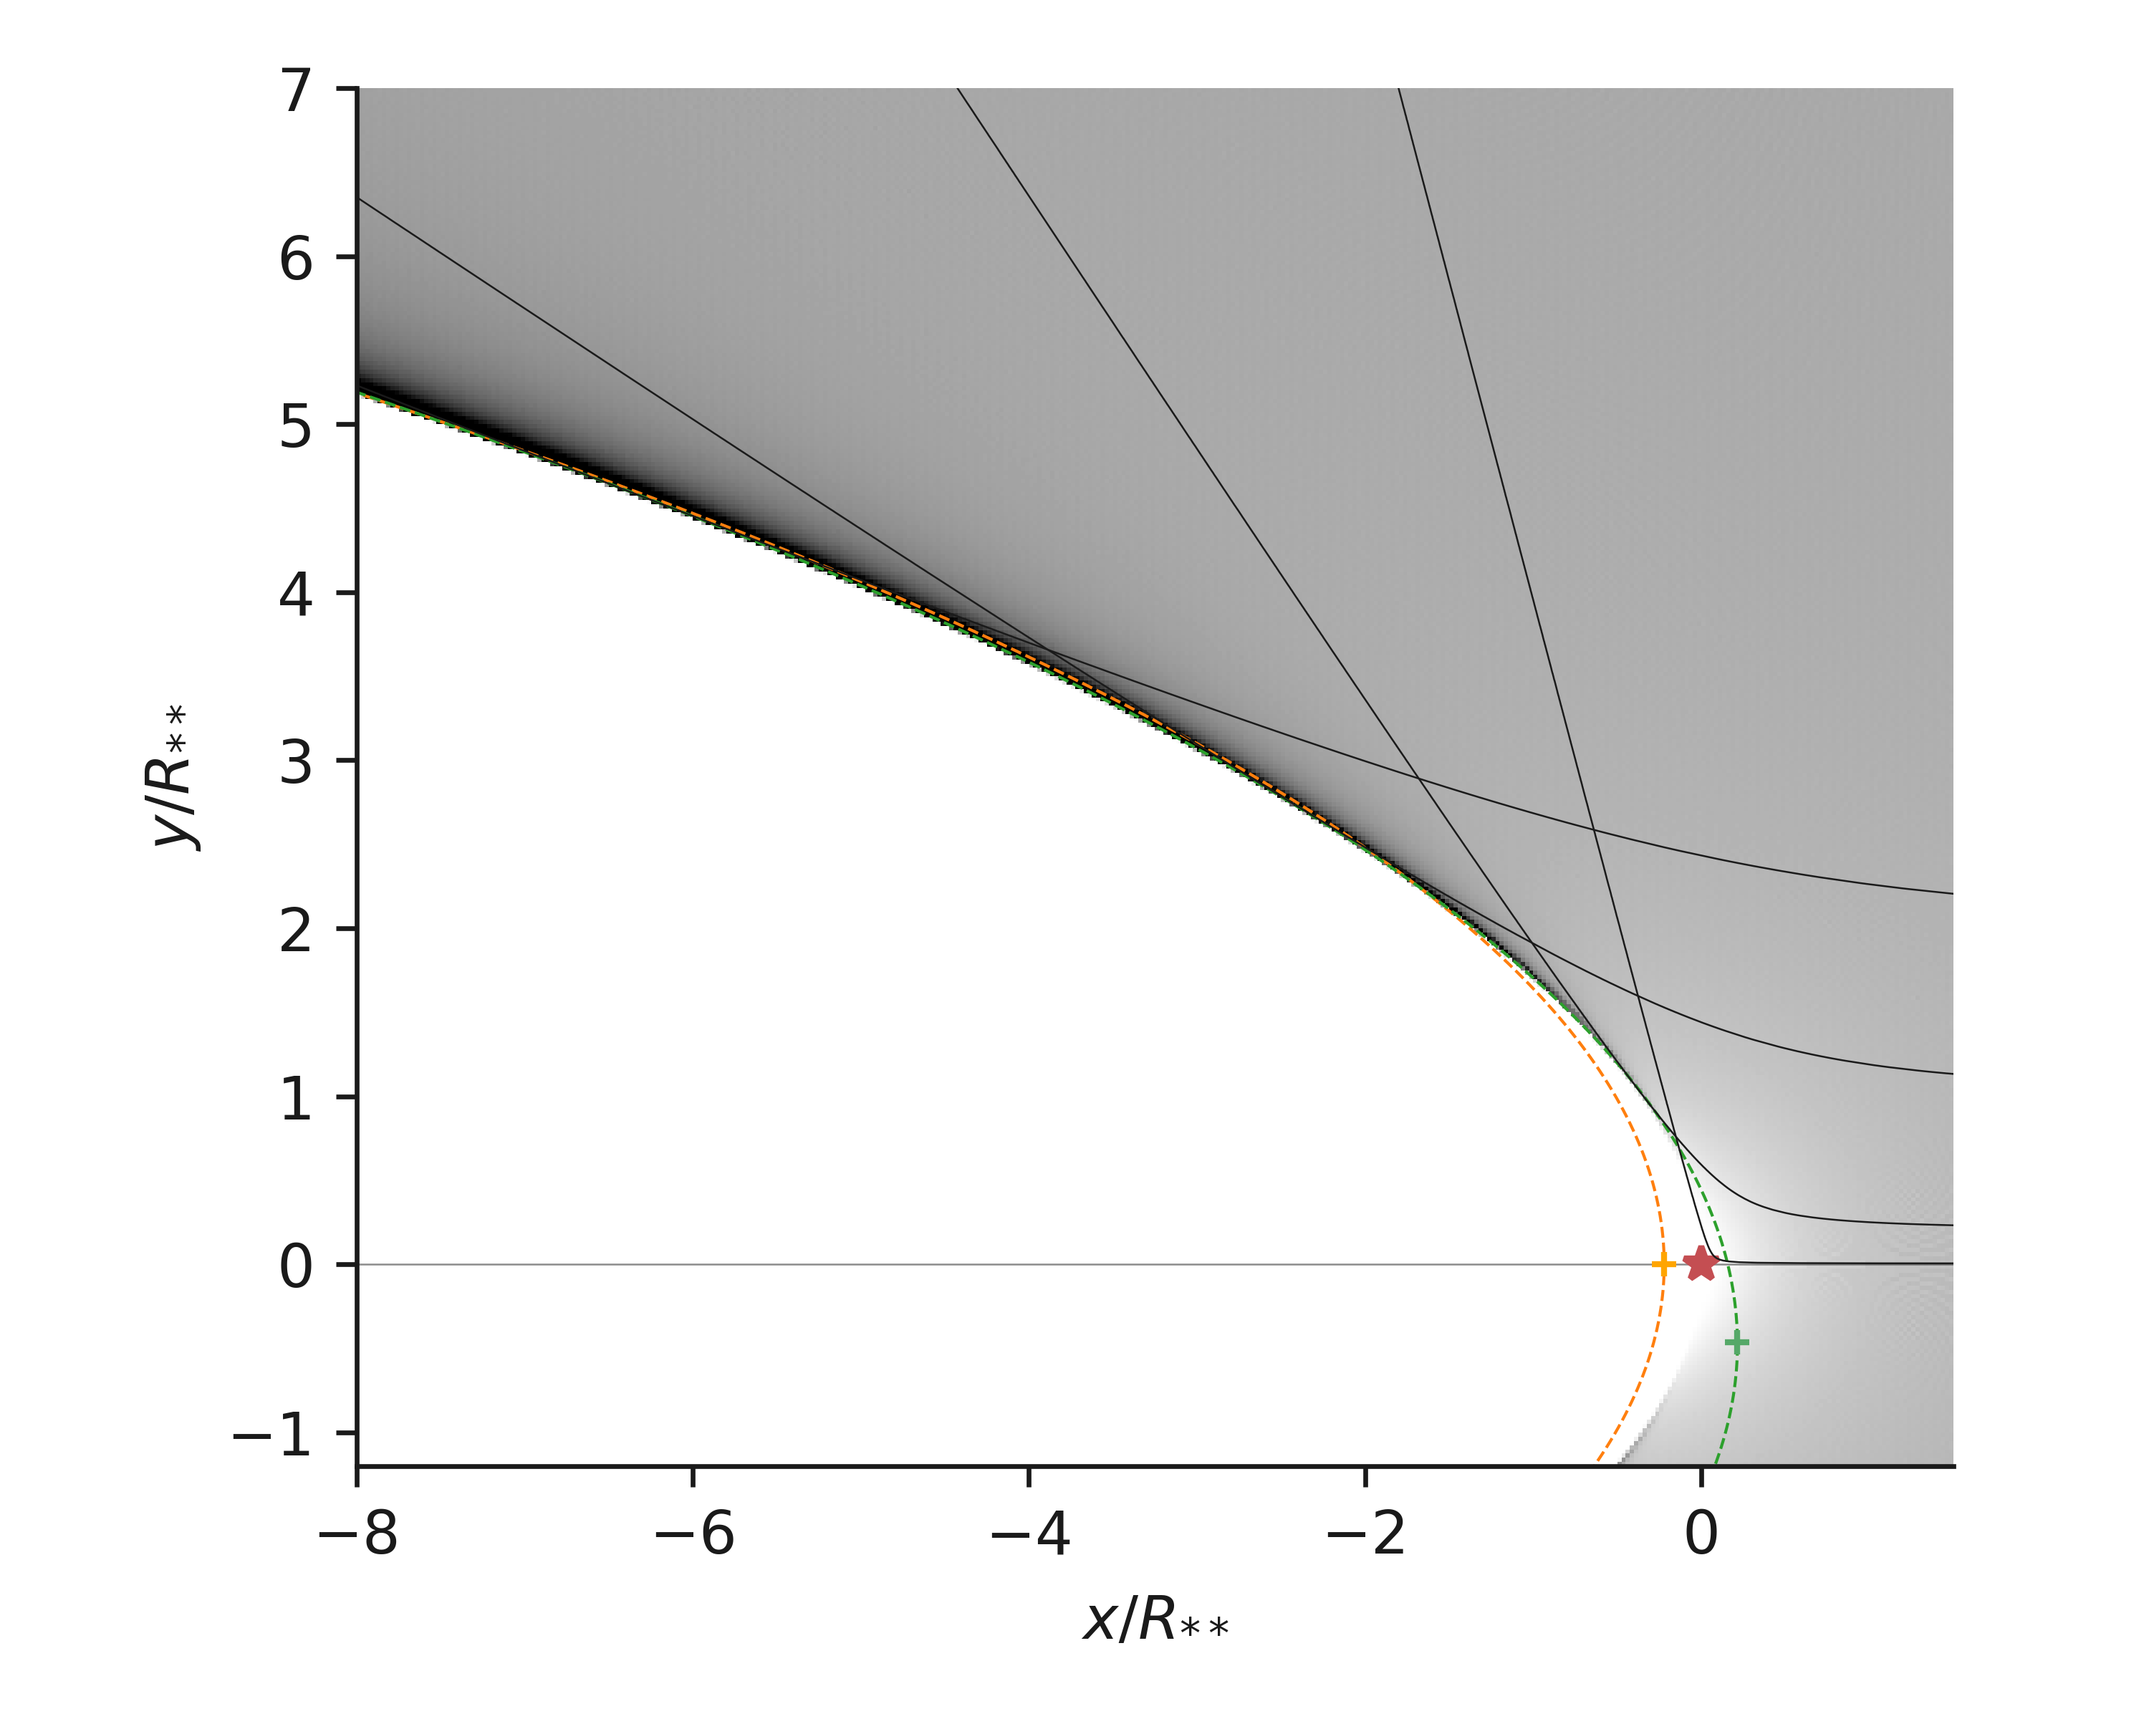
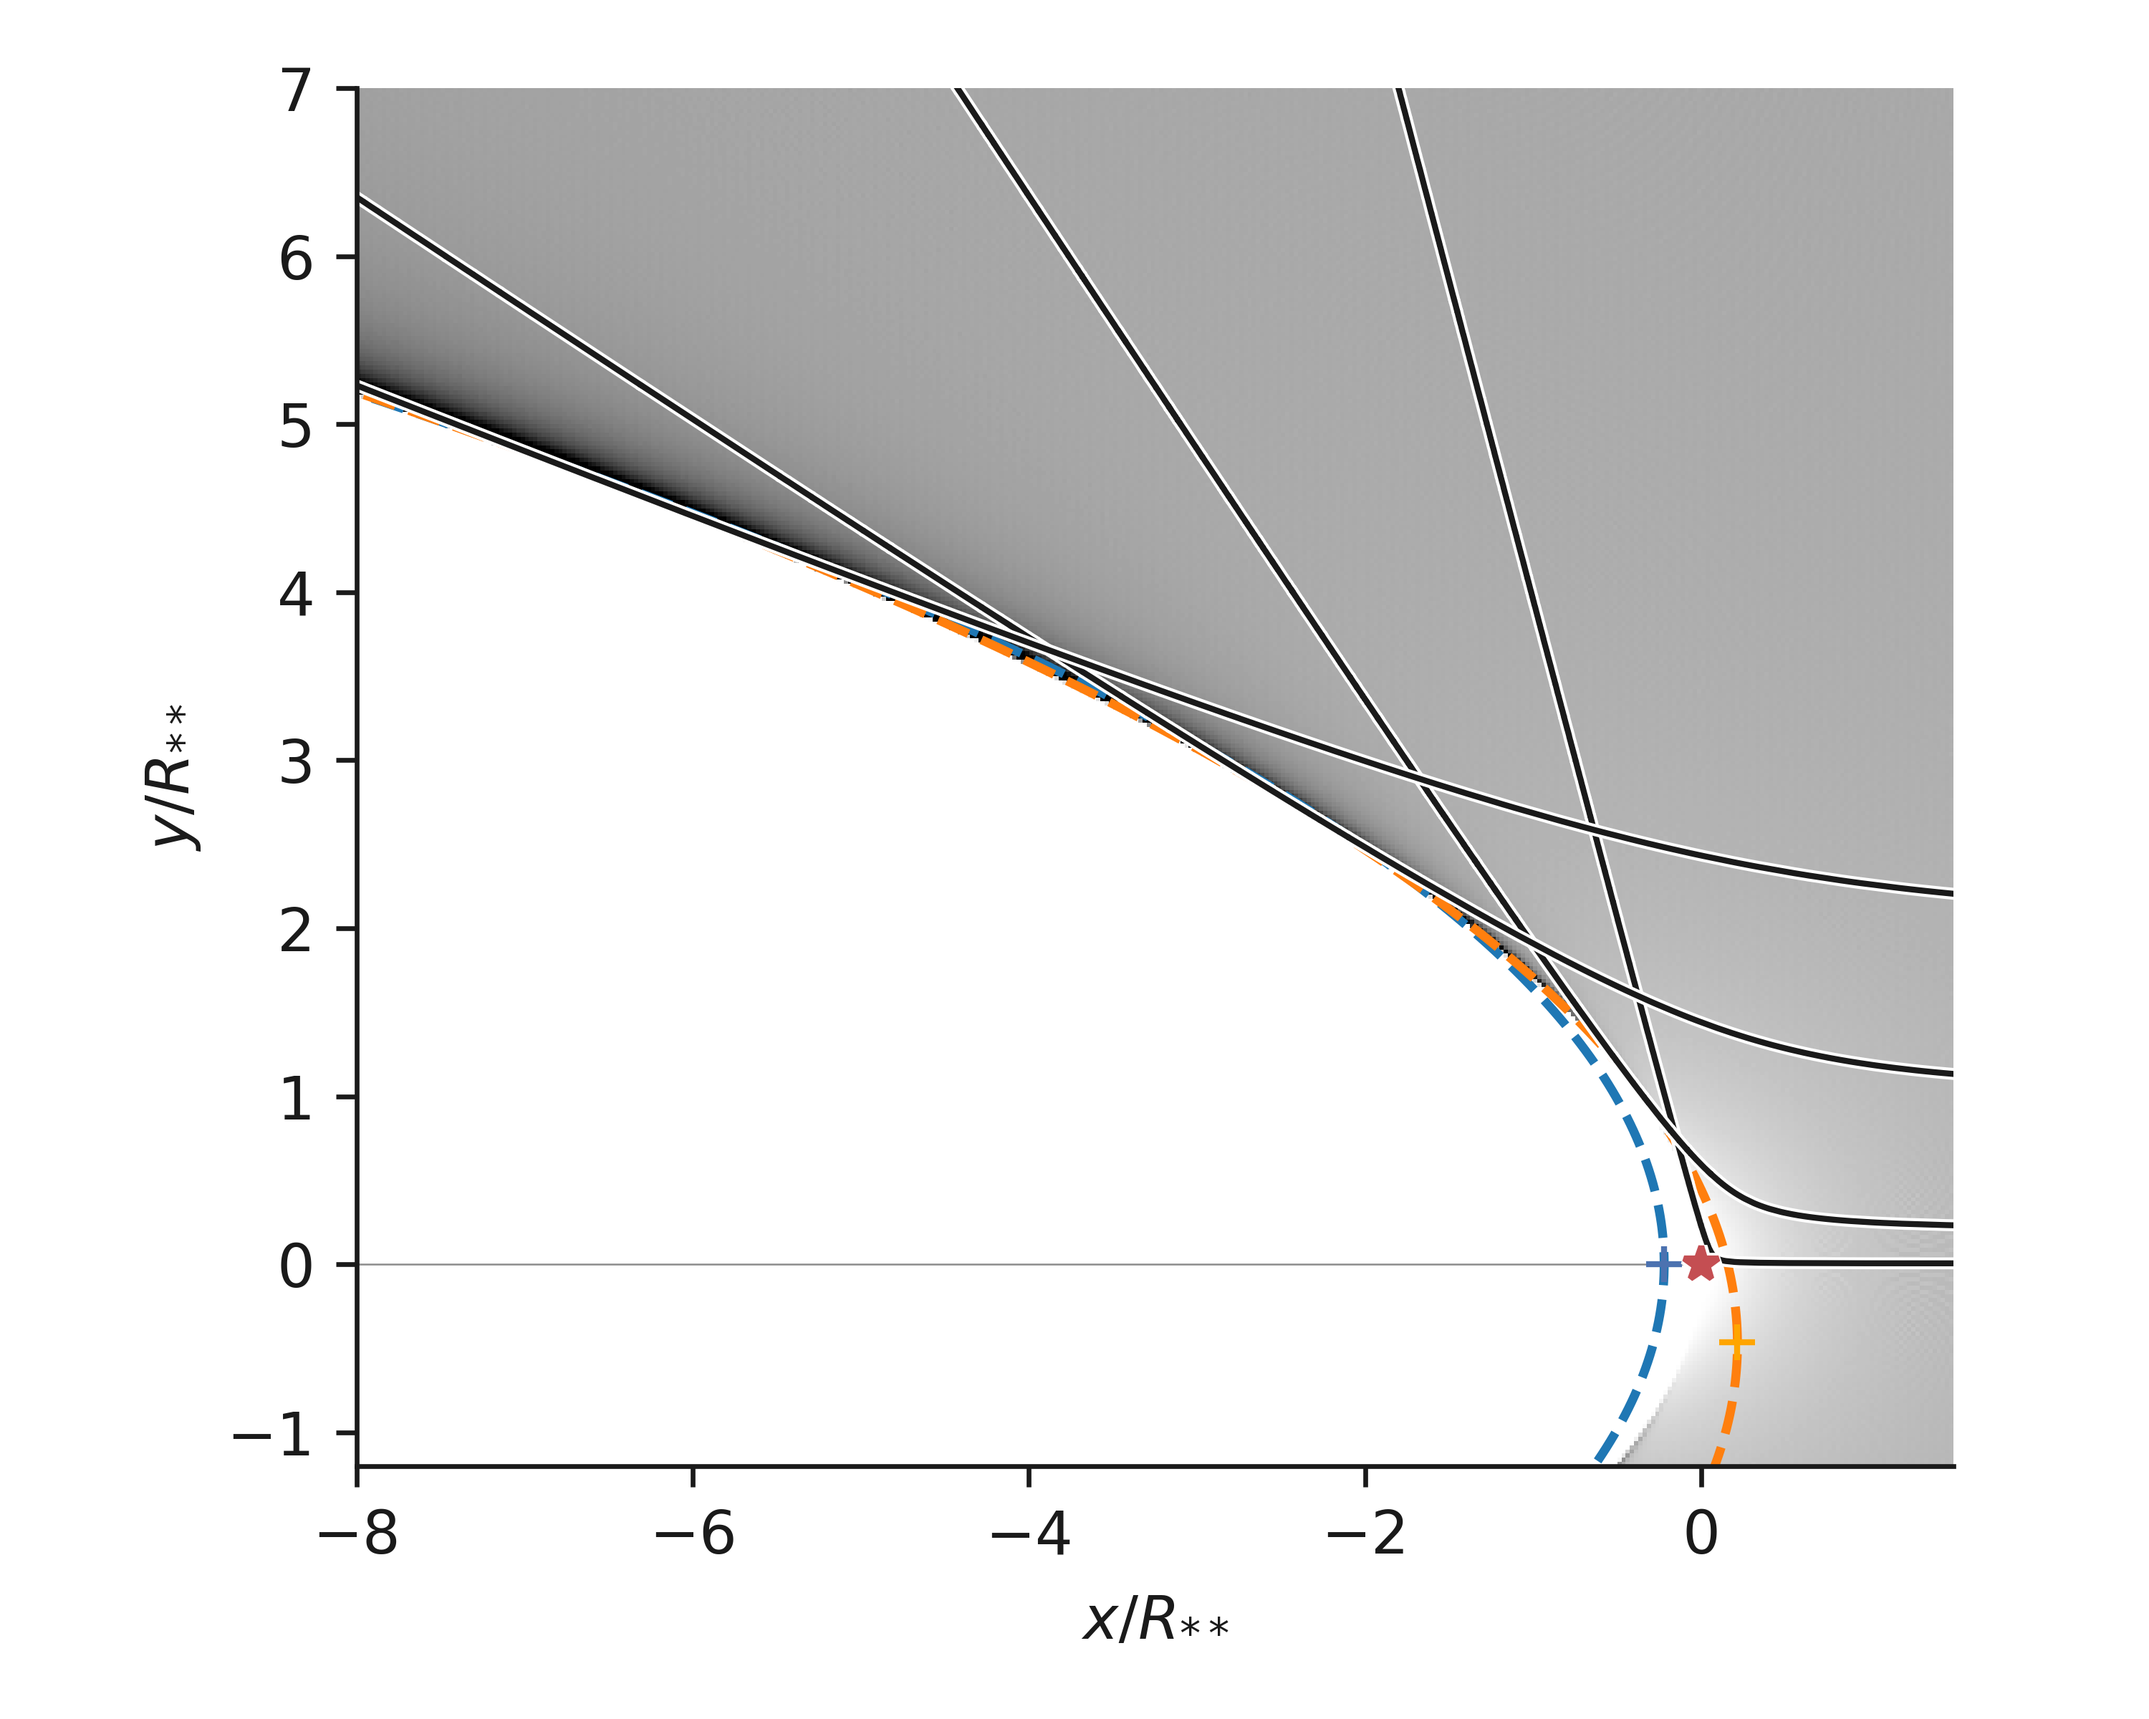
Improve perpendicular B case figure for Paper II
Make the lines thicker

diff --git a/onaxis-stats-plot.py b/onaxis-stats-plot.py
@@ -63,7 +63,7 @@ Rgbs = np.array(Rgbs)
 
 figfile = "figs/" + sys.argv[0].replace(
     ".py", f"-{STARSTRING}-{VSTRING}-{DUSTSTRING}.pdf")
-fig, ax = plt.subplots(figsize=(5, 4))
+fig, ax = plt.subplots(figsize=(4, 3.5))
 
 m = R0 > Rmin
 mlo = density < 1.0
@@ -72,7 +72,7 @@ ax.plot(density[m & mlo], R0[m & mlo], label="Wind bow shock")
 m = (1.5*Rmin > R0)
 ax.plot(density[m], Rmin[m], label="Dust wave")
 m = (1.5*Rmin > R0) & (Rsd < Rstarstar)
-ax.fill_between(density[m], Rmin[m], Red[m], color="orange", alpha=0.2)
+ax.fill_between(density[m], Rmin[m], Red[m], color="orange", alpha=0.4)
 m = Rgbs <= Rmin
 ax.plot(density[m], Rgbs[m], ls="--", label="Dust-free bow shock")
 m = R0 > Rmin
@@ -97,14 +97,15 @@ ax.text(1e-4, 0.22, r"$R_{**}$",
 ax.text(1e-4, 4e-4, r"$(\kappa / \kappa_\mathrm{d}) \, R_{**} $",
         ha="left", va="center", bbox=box_params)
 
+orange = (0.7, 0.35, 0.0)
 ax.text(1.0, 0.1, r"$R_{\ddag}$",
-        ha="left", va="center", color="orange",
+        ha="left", va="center", color=orange,
         path_effects=[PathEffects.withStroke(linewidth=3,
                                              alpha=0.7,
                                              foreground="w")],
         )
 ax.text(0.38, 0.04, r"$R_{\mathrm{min}}$",
-        ha="left", va="center", color="orange",
+        ha="left", va="center", color=orange,
         path_effects=[PathEffects.withStroke(linewidth=3,
                                              alpha=0.7,
                                              foreground="w")],
@@ -113,16 +114,16 @@ ax.text(0.38, 0.04, r"$R_{\mathrm{min}}$",
 default_title = f"{STARSTRING} {VSTRING} {DUSTSTRING}"
 fancy_title = {
     "MS10 v080 gra002":
-    r"$M = 10$ M$_\odot$   $v = 80$ km s$^{-1}$  $a = 0.02\ \mu$m   graphite ",
+    r"$M = 10$ M$_\odot$ $v = 80$ km s$^{-1}$ $a = 0.02\ \mu$m graphite ",
 }
-ax.text(1e-4, 8e-5, fancy_title.get(default_title, default_title),
-        ha="left", va="center", fontsize="small", bbox=box_params)
+ax.text(3e-5, 8e-5, fancy_title.get(default_title, default_title),
+        ha="left", va="center", fontsize="x-small", bbox=box_params)
 
 
 
 
 leg = ax.legend(loc="upper right", 
-                title="Bow variety")
+                title="Bow variety", fontsize="x-small")
 #leg.get_title().set_fontsize("small")
 
 ax.set(

diff --git a/bperp-shape.py b/bperp-shape.py
@@ -2,6 +2,7 @@ import sys
 import numpy as np
 from scipy.integrate import odeint
 from matplotlib import pyplot as plt
+import matplotlib.patheffects as PathEffects
 import seaborn as sns
 
 
@@ -18,6 +19,9 @@ def trajectory(tgrid, y0, ydot0=0):
 
 
 figfile = sys.argv[0].replace(".py", ".png")
+
+# White border for lines
+pe = [PathEffects.withStroke(linewidth=2, foreground="w")]
 
 y0max = 10.0
 ny0 = 4000
@@ -84,24 +88,24 @@ ax.imshow(H.T, origin='lower', extent=[xmin, xmax, ymin, ymax],
           vmin=0.0, vmax=3*H0, cmap='gray_r')
 
 
-ax.plot(-tgrid, yshape, lw=0.0)
+#ax.plot(-tgrid, yshape, lw=0.0)
 
-ax.plot(-p1(yext**2), yext, lw=0.5, ls="--")
-ax.plot(-p2(yext), yext, lw=0.5, ls="--")
+ax.plot(-p1(yext**2), yext, lw=1.5, ls="--")
+ax.plot(-p2(yext), yext, lw=1.5, ls="--")
 
 ax.axhline(0.0, color="k", alpha=0.5, lw=0.3)
 
-ax.plot(-p2(yext[j0]), yext[j0], "+", color="g", ms=4)
-ax.plot(-p1(0.0), 0.0, "+", color="orange", ms=4)
-ax.plot(0.0, 0.0, "*", color="r", ms=6)
+ax.plot(-p2(yext[j0]), yext[j0], "+", color="orange", ms=6)
+ax.plot(-p1(0.0), 0.0, "+", color="b", ms=6)
+ax.plot(0.0, 0.0, "*", color="r", ms=6, zorder=100,  path_effects=pe)
 
 for j in jsamples:
-    ax.plot(-tgrid, ystack[j, :], lw=0.3, color="k")
+    ax.plot(-tgrid, ystack[j, :], lw=1, color="k", path_effects=pe)
 
 #ax.legend(fontsize="small", ncol=2)
 
 ax.set_aspect("equal")
-ax.set(xlim=[-8.0, 1.5], ylim=[-1.2, 7.0],
+ax.set(xlim=[xmin, xmax], ylim=[ymin, ymax],
        xlabel="$x / R_{**}$", ylabel="$y / R_{**}$")
 sns.despine()
 fig.tight_layout()
